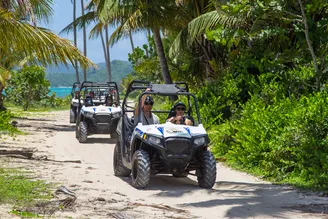
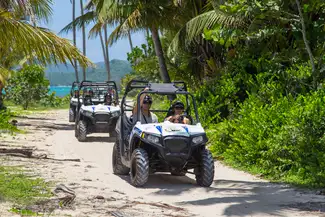
edits

diff --git a/scoots/index.html b/scoots/index.html
@@ -103,7 +103,7 @@
                 <a href="rentals.html">More info...</a>
             </div>
             <div class="atvs-container">
-                <img src="images/ATV-tour.webp" width="328" height="219" alt="ATV tour" loading="lazy">
+                <img src="images/atv-tour.webp" width="328" height="219" alt="ATV tour" loading="lazy">
                 <h3>ATV Rental</h3>
                 <p>Honda Pioneer 1000</p>
                 <p>Half day (3 hrs), full day (24 hrs) and multi-day rentals</p>
